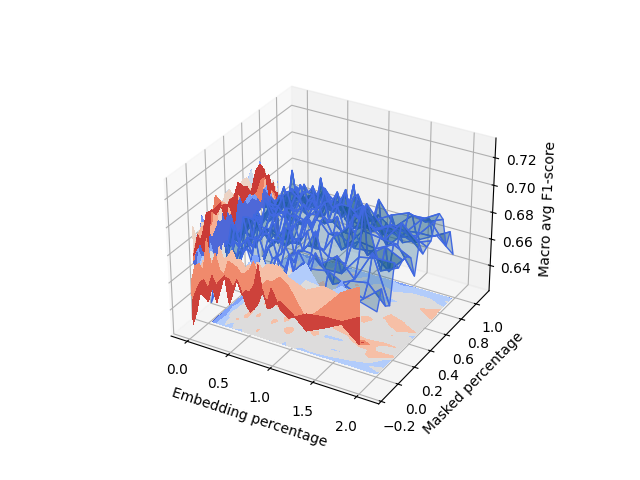
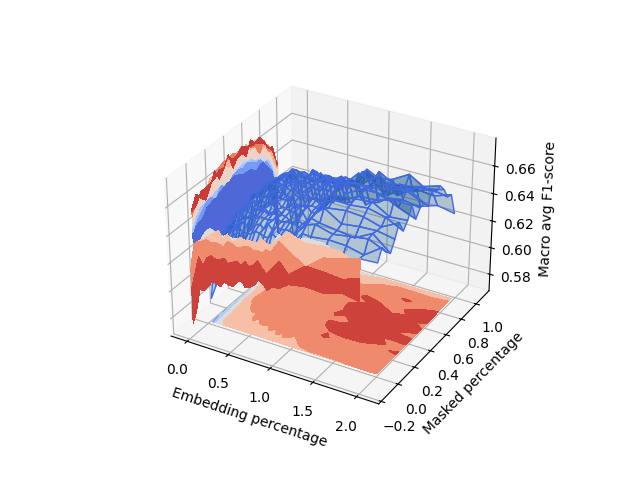
Reverted modifications on possible hyperparameters

diff --git a/Encoder_classifier/main.py b/Encoder_classifier/main.py
@@ -16,18 +16,18 @@ from sklearn.metrics import classification_report
 
 # CLASSIFIER PARAMETERS
 CL_batch_size = [200]
-CL_learning_rate = [0.0004]
+CL_learning_rate = [0.0001, 0.0002, 0.0004]
 CL_plot = False
 CL_weight_decay = [0.2e-5, 0.5e-5]
 CL_num_epochs = [50]
 CL_patience = [5]
-CL_loss_weight = [(0.3, 0.7), (0.5, 0.5)]
+CL_loss_weight = [(0.3, 0.7), (0.25, 0.75), (0.5, 0.5)]
 # ENCODER PARAMETERS
 EN_binary_loss_weight = [None, 0.5]
 EN_batch_size = [200]
-EN_learning_rate = [0.0015]
+EN_learning_rate = [0.0015, 0.002]
 EN_plot = False
-EN_embedding_perc_list = [0.05, 0.1, 0.15, 0.2, 0.25, 0.3, 0.35, 0.4, 0.45, 0.5, 0.55, 0.6, 0.65, 0.7, 0.75, 0.8, 0.85, 0.9, 0.95, 1, 1.1, 1.2, 1.4, 1.6, 1.8, 2]
+EN_embedding_perc_list = [0.05, 0.1, 0.15, 0.2, 0.25, 0.3, 0.35, 0.4, 0.45, 0.5, 0.55, 0.6, 0.65, 0.7, 0.75, 0.8, 0.85, 0.9, 0.95, 1, 1.1, 1.2, 1.4, 1.6, 1.8, 2, 2.5, 3]
 EN_weight_decay = [0.05e-5, 0.2e-5]
 EN_num_epochs = [250]
 EN_masked_percentage_list = [0, 0.05, 0.1, 0.15, 0.2, 0.25, 0.3, 0.35, 0.4, 0.45, 0.5, 0.55, 0.6, 0.65, 0.7, 0.75, 0.8, 0.85, 0.9, 0.95]
